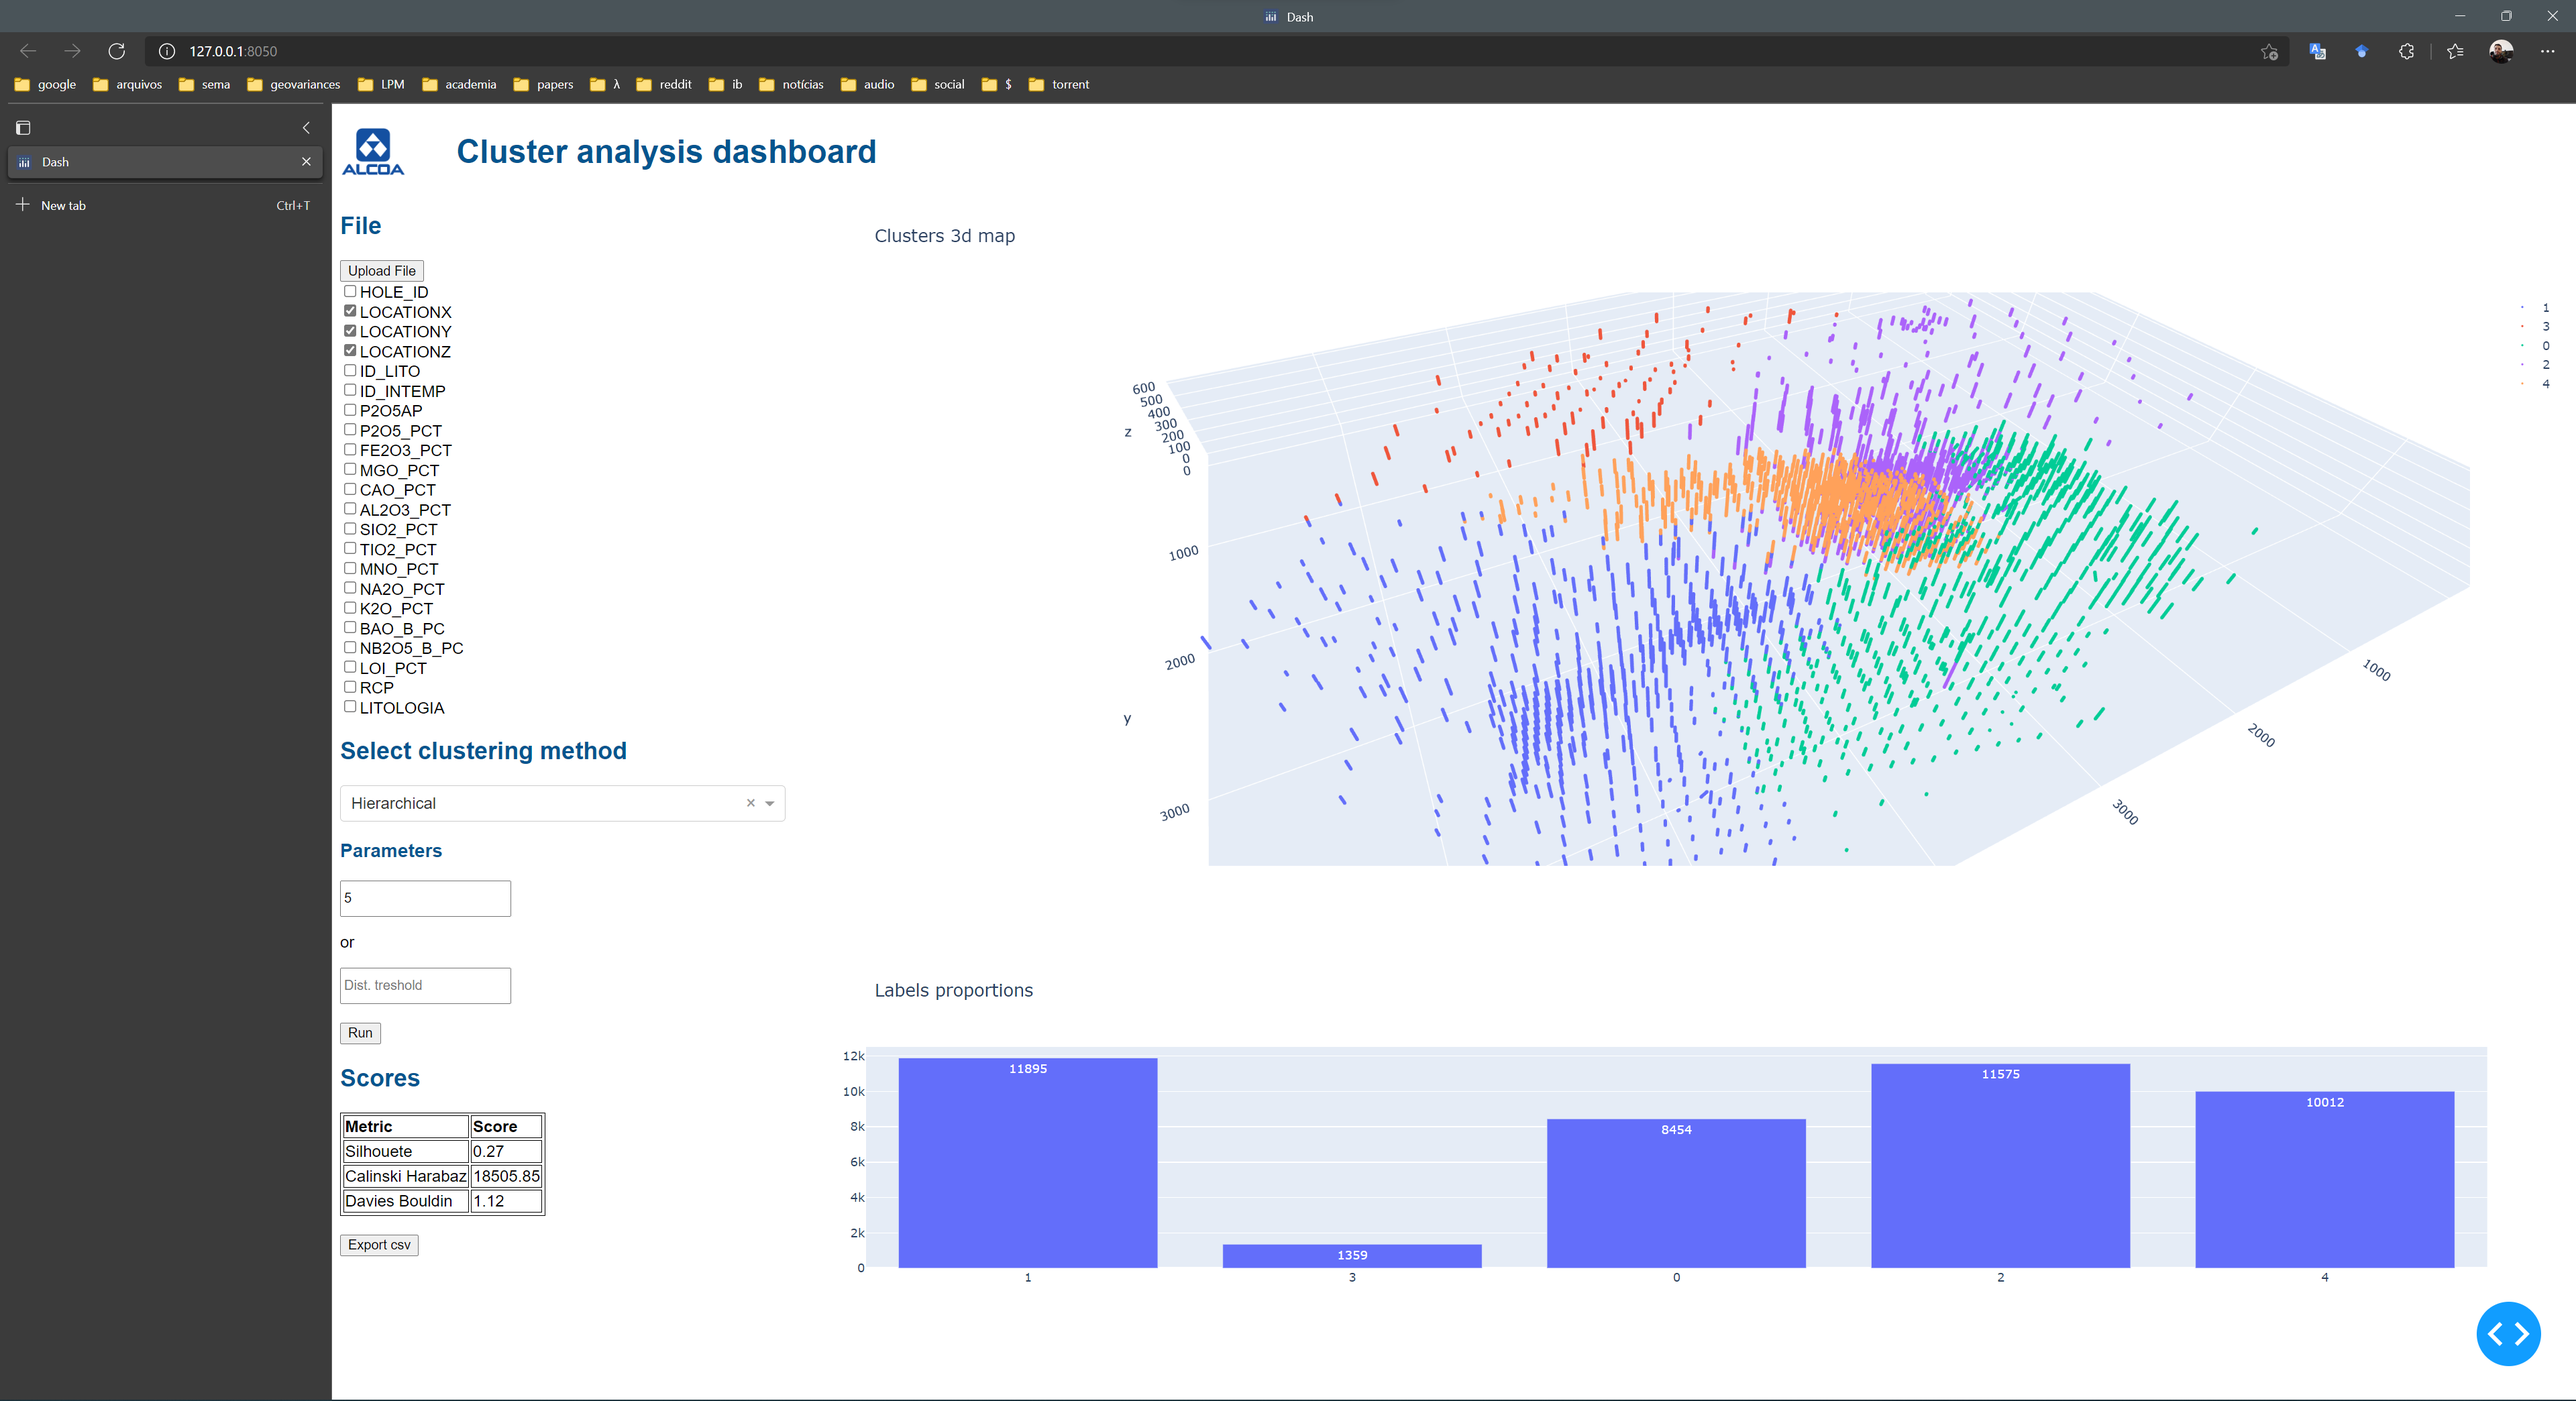
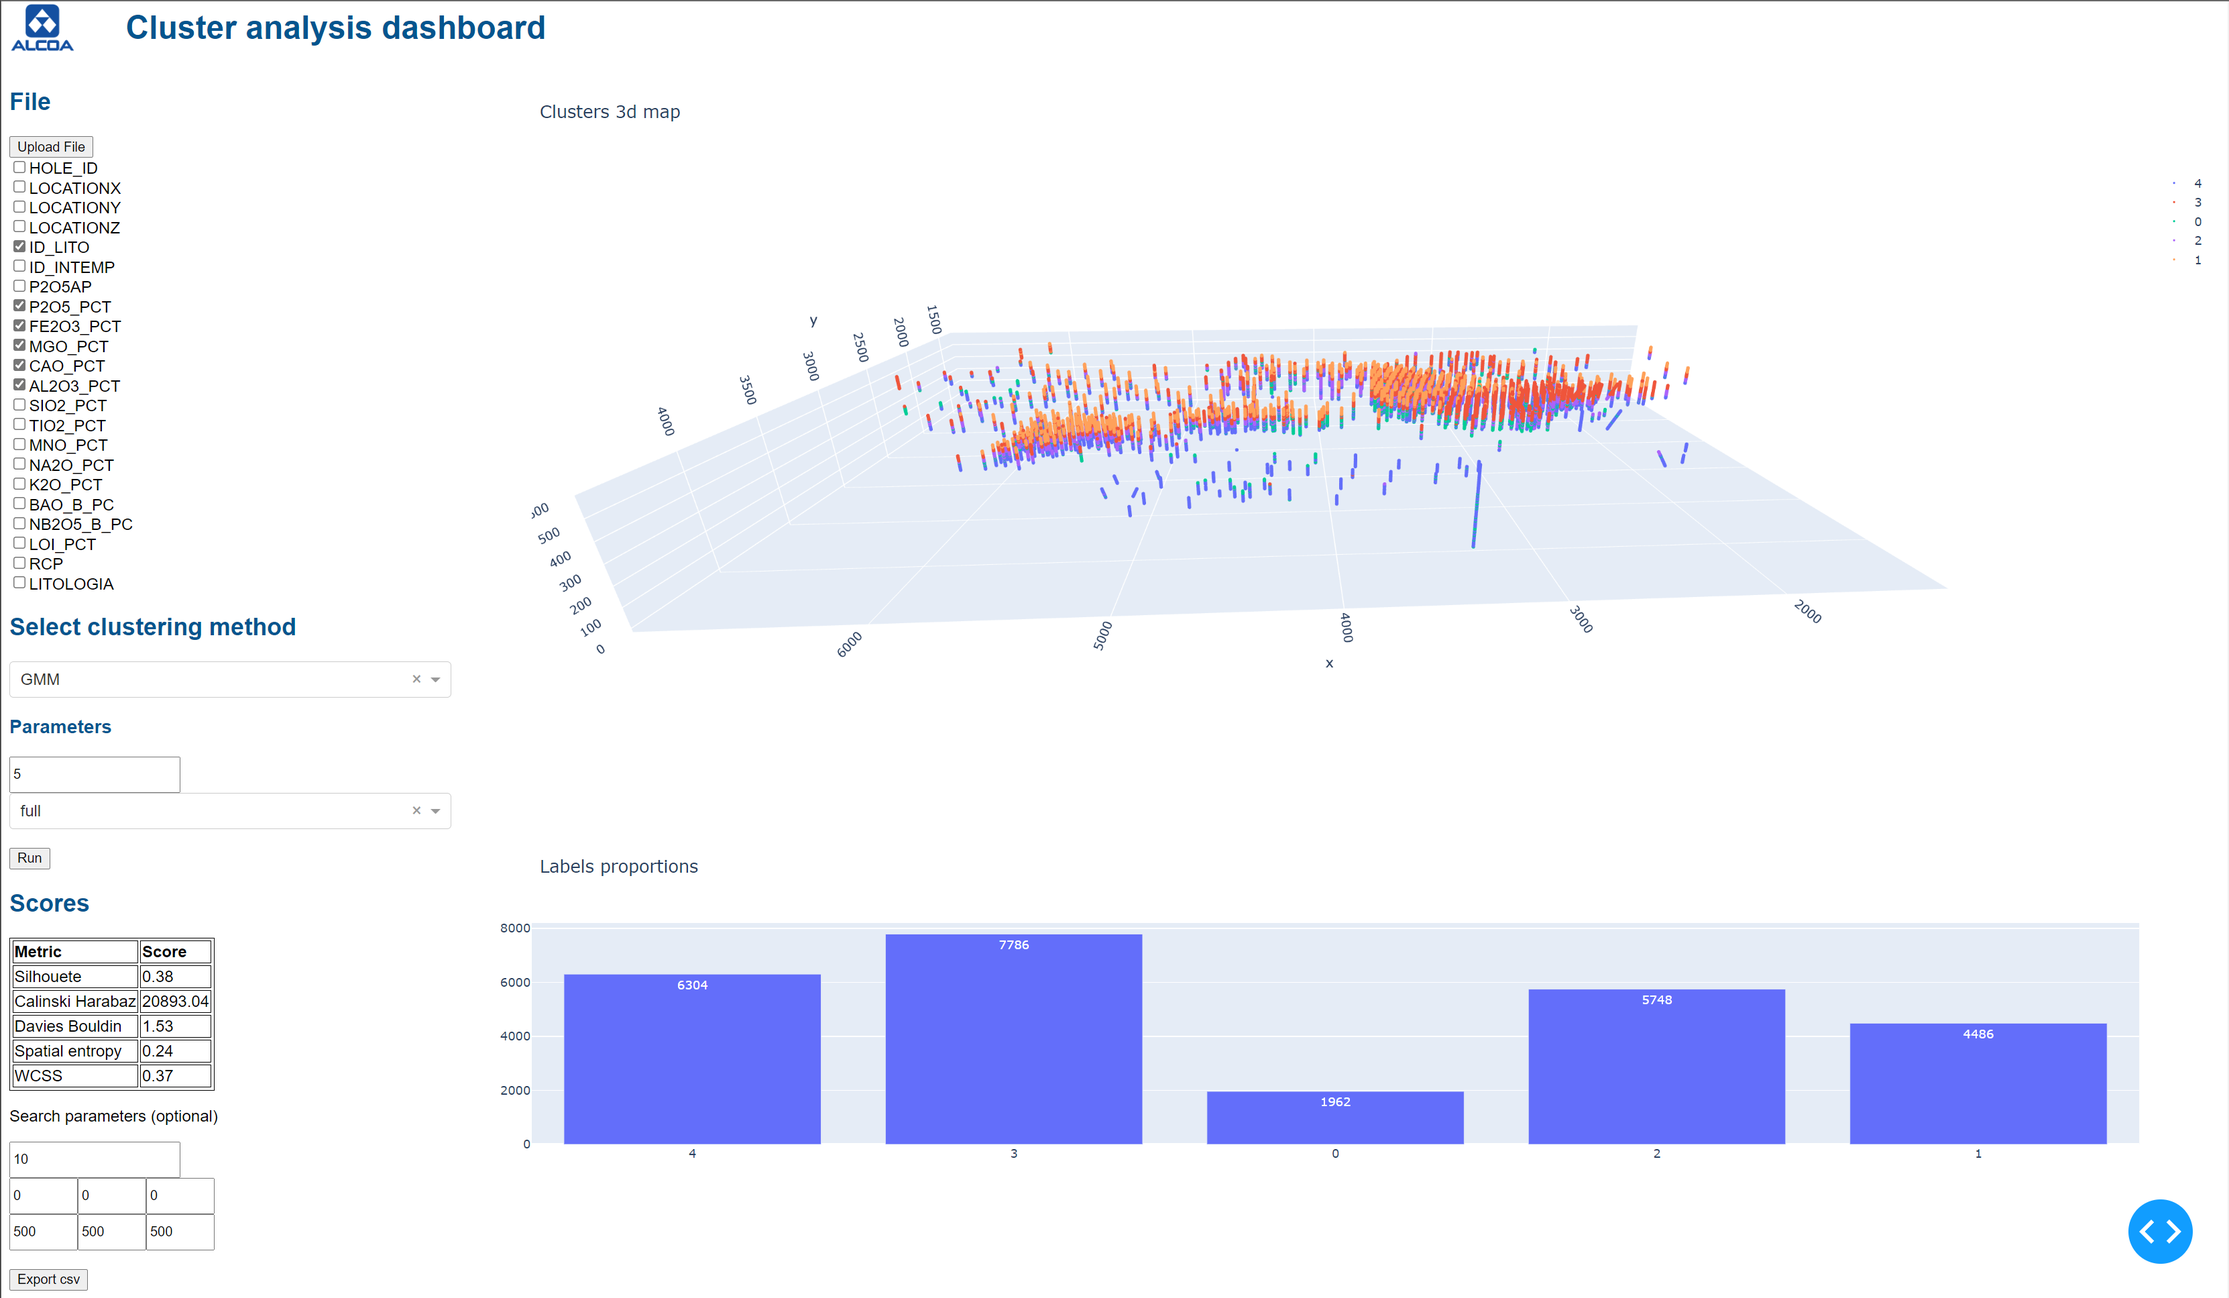
perfumaria

diff --git a/cluster_analysis_dashboard.py b/cluster_analysis_dashboard.py
@@ -75,8 +75,8 @@ app.layout = html.Div([
             {'label': 'Hierarchical', 'value': 'Hierarchical'},
             {'label': 'GMM', 'value': 'GMM'},
             {'label': 'ACCluster', 'value': 'ACCluster'},
-            {'label': 'DSSEnsemble', 'value': 'DSSEnsemble'}])
-        ]),
+            {'label': 'DSSEnsemble', 'value': 'DSSEnsemble'}], style={'height':'30px', 'width':'196px'})
+        ],),
 
         #method params
         html.Div(id='method_params', children=[]),
@@ -89,7 +89,7 @@ app.layout = html.Div([
         html.Div(id='scores', children=[]),
         html.Div(id='scores_params', children=[
             html.P('Search parameters (optional)'),
-            dcc.Input(id='snnears', type='number', placeholder='Numb. of nearest neighbors', style={'height':'30px'}),
+            dcc.Input(id='snnears', type='number', placeholder='Numb. of nearest neighbors', style={'height':'30px', 'width':'196px'}),
             html.Div([
             dcc.Input(id='sang1', type='number', placeholder='ang 1', style={'height':'30px', 'width':'60px'}),
             dcc.Input(id='sang2', type='number', placeholder='ang 2', style={'height':'30px', 'width':'60px'}),
@@ -164,42 +164,44 @@ def method_params(mval, actual_children):
             html.H3('Parameters'),
         ]
     if mval == "Kmeans":
-        parameters.append(dcc.Input(id='nclus', type='number', placeholder='Numb. of clusters', style={'height':'30px'}))
+        parameters.append(dcc.Input(id='nclus', type='number', placeholder='Numb. of clusters', style={'height':'30px', 'width':'196px'}))
         return parameters
     
     elif mval == "Hierarchical":
-        parameters.append(dcc.Input(id='nclus', type='number', placeholder='Numb. of clusters', style={'height':'30px'}))
+        parameters.append(dcc.Input(id='nclus', type='number', placeholder='Numb. of clusters', style={'height':'30px', 'width':'196px'}))
         parameters.append(html.P('or'))
-        parameters.append(dcc.Input(id='nclus', type='number', placeholder='Dist. treshold', style={'height':'30px'}))
+        parameters.append(dcc.Input(id='nclus', type='number', placeholder='Dist. treshold', style={'height':'30px', 'width':'196px'}))
         return parameters
     
     elif mval == "GMM":
-        parameters.append(dcc.Input(id='nclus', type='number', placeholder='Numb. of clusters', style={'height':'30px'}))
+        parameters.append(dcc.Input(id='nclus', type='number', placeholder='Numb. of clusters', style={'height':'30px', 'width':'196px'}))
+
         parameters.append(dcc.Dropdown(id='cov_type', options=[
             {'label': 'full', 'value': 'full'},
             {'label': 'tied', 'value': 'tied'},
             {'label': 'diag', 'value': 'diag'},
             {'label': 'spherical', 'value': 'spherical'}],
-            placeholder="Covariance type"
+            placeholder="Covariance type", style={'height':'30px', 'width':'196px'}
         ))
         return parameters
 
     elif mval == "ACCluster":
-        parameters.append(dcc.Input(id='nclus', type='number', placeholder='Numb. of clusters', style={'height':'30px'}))
+        parameters.append(dcc.Input(id='nclus', type='number', placeholder='Numb. of clusters', style={'height':'30px', 'width':'196px'}))
         parameters.append(dcc.Dropdown(id='acmetric', options=[
             {'label': 'morans', 'value': 'morans'},
             {'label': 'getis', 'value': 'getis'}],
-            placeholder="Autocorrelation metrics"
+            placeholder="Autocorrelation metrics", style={'height':'30px', 'width':'196px'}
         ))
+        parameters.append(html.Br())
         parameters.append(dcc.Dropdown(id='cluster_method', options=[
             {'label': 'kmeans', 'value': 'kmeans'},
             {'label': 'hier', 'value': 'hier'},
             {'label': 'gmm', 'value': 'gmm'},],
-            placeholder="Cluster method"
+            placeholder="Cluster method", style={'height':'30px', 'width':'196px'}
         ))
         
         parameters.append(html.P('Search parameters'))
-        parameters.append(dcc.Input(id='nnears', type='number', placeholder='Numb. of nearest neighbors', style={'height':'30px'}))
+        parameters.append(dcc.Input(id='nnears', type='number', placeholder='Numb. of nearest neighbors', style={'height':'30px', 'width':'196px'}))
         parameters.append(html.Div([
             dcc.Input(id='ang1', type='number', placeholder='ang 1', style={'height':'30px', 'width':'60px'}),
             dcc.Input(id='ang2', type='number', placeholder='ang 2', style={'height':'30px', 'width':'60px'}),
@@ -215,17 +217,18 @@ def method_params(mval, actual_children):
         return parameters
 
     elif mval == "DSSEnsemble":
-        parameters.append(dcc.Input(id='nclus', type='number', placeholder='Numb. of clusters', style={'height':'30px'}))
+        parameters.append(dcc.Input(id='nclus', type='number', placeholder='Numb. of clusters', style={'height':'30px', 'width':'196px'}))
+
         parameters.append(dcc.Dropdown(id='cluster_method', options=[
             {'label': 'kmeans', 'value': 'kmeans'},
             {'label': 'hier', 'value': 'hier'},
             {'label': 'gmm', 'value': 'gmm'},],
-            placeholder="Cluster method"
+            placeholder="Cluster method", style={'height':'30px', 'width':'196px'}
         ))
 
         parameters.append(html.P('Search parameters'))
-        parameters.append(dcc.Input(id='nnears', type='number', placeholder='Numb. of nearest neighbors', style={'height':'30px'}))
-        parameters.append(dcc.Input(id='ntaken', type='number', placeholder='Numb. of nn taken', style={'height':'30px'}))
+        parameters.append(dcc.Input(id='nnears', type='number', placeholder='Numb. of nearest neighbors', style={'height':'30px', 'width':'196px'}))
+        parameters.append(dcc.Input(id='ntaken', type='number', placeholder='Numb. of nn taken', style={'height':'30px', 'width':'196px'}))
         
         parameters.append(html.Div([
             dcc.Input(id='ang1', type='number', placeholder='ang 1', style={'height':'30px', 'width':'60px'}),
@@ -240,7 +243,7 @@ def method_params(mval, actual_children):
         ]))
 
         parameters.append(html.P('Ensemble parameters'))
-        parameters.append(dcc.Input(id='nreals', type='number', placeholder='Numb. of realizations', style={'height':'30px'}))
+        parameters.append(dcc.Input(id='nreals', type='number', placeholder='Numb. of realizations', style={'height':'30px', 'width':'196px'}))
 
         return parameters
     
